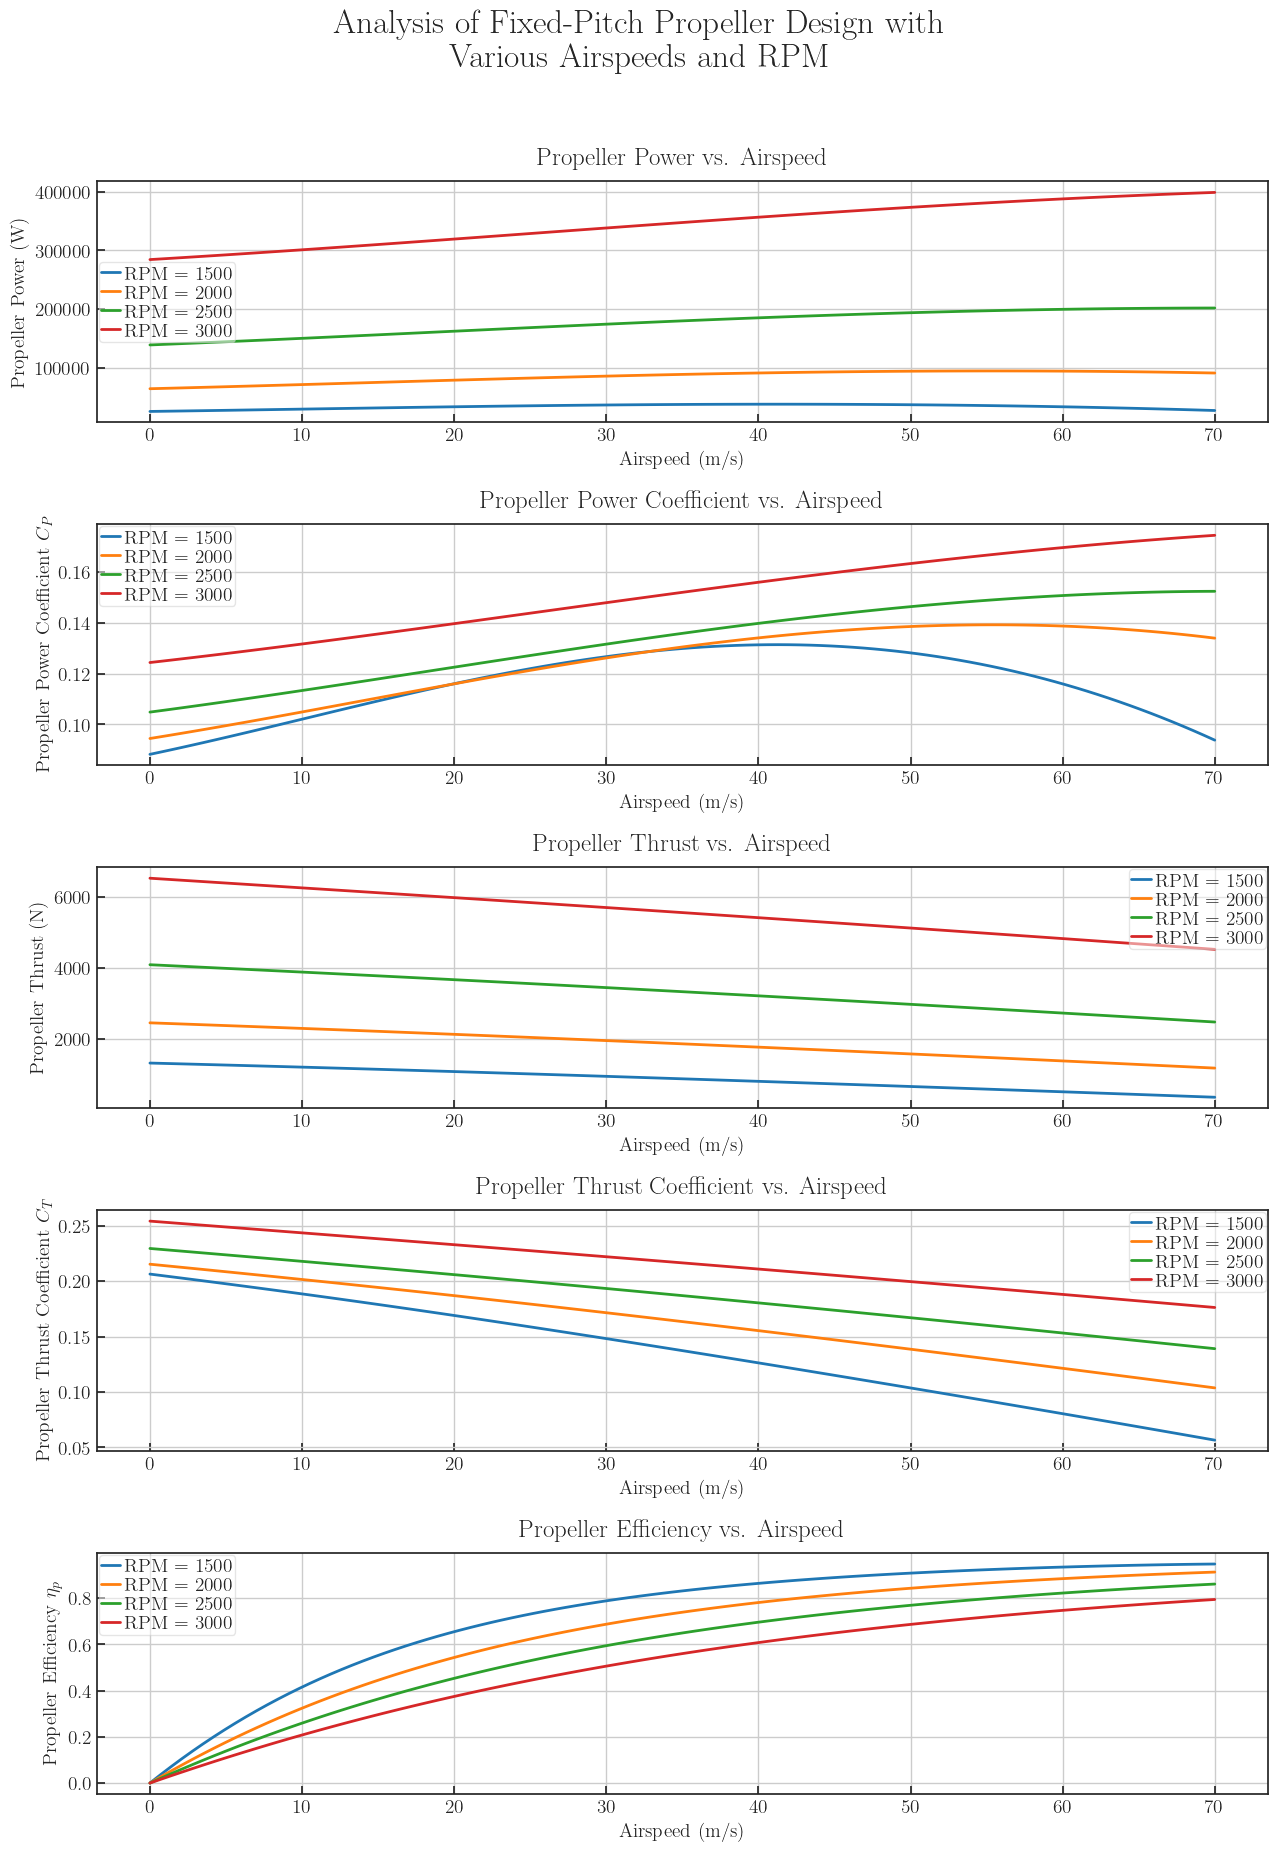
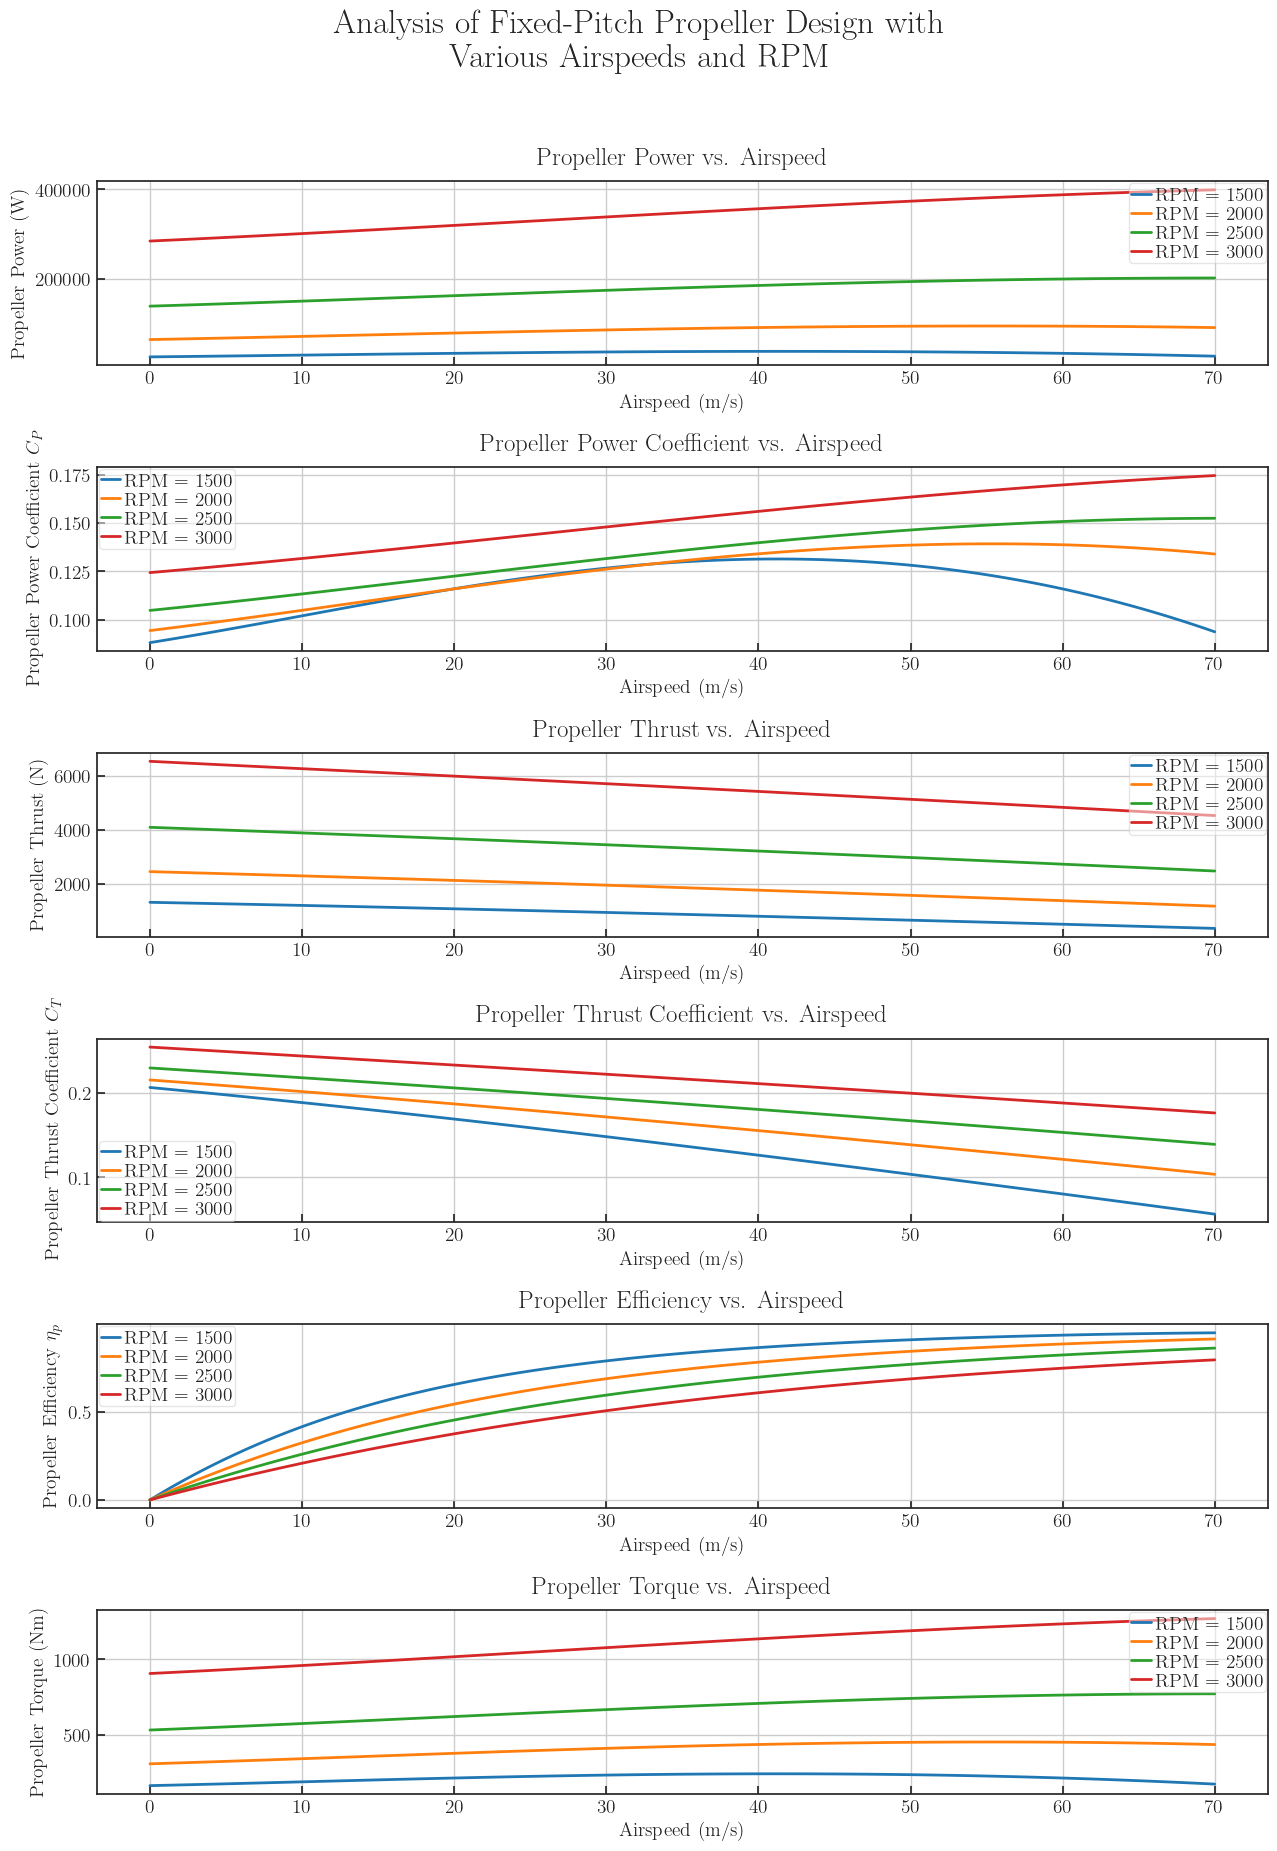
Variable pitch analysis not working happily
TVG 03.01.2021

diff --git a/Python_Codes/prop_design_analysis_fixpitch_varRPM.py b/Python_Codes/prop_design_analysis_fixpitch_varRPM.py
@@ -1,6 +1,6 @@
 '''
 prop_design_analysis
-Propeller design and analysis (fixed and variable pitch)
+Propeller design and analysis (fixed pitch, varying RPM)
 
 Calls:
     prop_design_TVG
@@ -13,13 +13,23 @@ History:
 '''
 
 from prop_design_TVG import prop_design
-from prop_analysis_fix_pitch import prop_analysis
+from prop_analysis import prop_analysis
 import numpy
 import matplotlib.pyplot as plt
 from Class130 import AtmData, Propeller
 import sys
 sys.path.append("../Utilities")
 import formatfigures
+
+# Emrax 188 Engine data (continuous performance)
+# Nomeclature: enginename_voltagelevel_coolingtype
+Emrax188_HV_CC = numpy.array([[0, 0],
+                            [1000, 5000],
+                            [2000, 10500],
+                            [3000, 16000],
+                            [4000, 22000],
+                            [5000, 26000],
+                            [6000, 28000]])
 
 def m0_fn(Ma):
     if numpy.any(Ma <= 0.9):
@@ -116,55 +126,105 @@ Pdesign = numpy.zeros((ll,))
 CP = numpy.zeros((ll,))
 Tdesign = numpy.zeros((ll,))
 CT = numpy.zeros((ll,))
+Qdesign = numpy.zeros((ll,))
+CQ = numpy.zeros((ll,))
 etap = numpy.zeros((ll,))
+
 
 plt.figure(figsize=(13, 19.5))
 
-sp1 = plt.subplot(5,1,1)
+sp1 = plt.subplot(6,1,1)
 plt.gca().set_title("Propeller Power vs. Airspeed")
 plt.xlabel("Airspeed (m/s)")
 plt.ylabel("Propeller Power (W)")
 
-sp2 = plt.subplot(5,1,2)
+sp2 = plt.subplot(6,1,2)
 plt.gca().set_title("Propeller Power Coefficient vs. Airspeed")
 plt.xlabel("Airspeed (m/s)")
 plt.ylabel("Propeller Power Coefficient $C_P$")
 
-sp3 = plt.subplot(5,1,3)
+sp3 = plt.subplot(6,1,3)
 plt.gca().set_title("Propeller Thrust vs. Airspeed")
 plt.xlabel("Airspeed (m/s)")
 plt.ylabel("Propeller Thrust (N)")
 
-sp4 = plt.subplot(5,1,4)
+sp4 = plt.subplot(6,1,4)
 plt.gca().set_title("Propeller Thrust Coefficient vs. Airspeed")
 plt.xlabel("Airspeed (m/s)")
 plt.ylabel("Propeller Thrust Coefficient $C_T$")
 
-sp5 = plt.subplot(5,1,5)
+sp5 = plt.subplot(6,1,5)
 plt.gca().set_title("Propeller Efficiency vs. Airspeed")
 plt.xlabel("Airspeed (m/s)")
 plt.ylabel("Propeller Efficiency $\eta_p$")
+
+sp6 = plt.subplot(6,1,6)
+plt.gca().set_title("Propeller Torque vs. Airspeed")
+plt.xlabel("Airspeed (m/s)")
+plt.ylabel("Propeller Torque (Nm)")
 
 for RPM in range(1500, 3500, 500):
     for ii in range(0,ll):
         atm = AtmData(Vseq[ii], h, is_SI)
         atm.expand(k, R)
         prop = Propeller(radius, numB, RPM, eta_P, CP=0, CT=0, CQ=0, Cl=0.4, chord=prop.chord, bet=prop.bet)
-        J[ii], Pdesign[ii], CP[ii], Tdesign[ii], CT[ii], etap[ii] = prop_analysis(atm, prop, m0_fn, Cd_fn)
+        J[ii], Pdesign[ii], CP[ii], Tdesign[ii], CT[ii], Qdesign[ii], CQ[ii], etap[ii] = prop_analysis(atm, prop, m0_fn, Cd_fn)
     
     sp1.plot(Vseq,Pdesign,label='RPM = {}'.format(RPM))
     sp2.plot(Vseq,CP,label='RPM = {}'.format(RPM))
     sp3.plot(Vseq,Tdesign,label='RPM = {}'.format(RPM))
     sp4.plot(Vseq,CT,label='RPM = {}'.format(RPM))
     sp5.plot(Vseq,etap,label='RPM = {}'.format(RPM))
+    sp6.plot(Vseq,Qdesign,label='RPM = {}'.format(RPM))
+    
 
 sp1.legend()
 sp2.legend()
 sp3.legend()
 sp4.legend()
 sp5.legend()
+sp6.legend()
 
 plt.tight_layout(rect=[0, 0.03, 1, 0.92])
 plt.suptitle("Analysis of Fixed-Pitch Propeller Design with \n Various Airspeeds and RPM\n\n",fontsize=24)
 plt.savefig('./Figures/fixed_pitch_analysis.png', bbox_inches='tight')
-plt.show()
+try:
+    formatfigures.formatfigures()
+    latex = True
+except ValueError:
+    print("Not using latex formatting")
+    latex = False
+
+# Design a propeller with the cruise conditions 
+atm = AtmData(62, 6000*0.3048, is_SI)
+atm.expand(1.4, 287)
+prop = Propeller(radius, numB, 1800, eta_P, CP=0, CT=0, CQ=0, Cl=0.4)
+r, prop.chord, prop.bet, P_design, T_design, Q_design, eta_P, prop.theta = prop_design(atm, prop, T_req, m0_fn, Cd_fn)
+
+RPMseq = numpy.linspace(500,3000,ll)
+fig1 = plt.figure()
+ax1 = fig1.add_subplot(111)
+ax2 = ax1.twinx()
+
+for v_inf in range(2,72,20):
+    for ii in range(0,ll):
+        atm = AtmData(v_inf, h, is_SI)
+        atm.expand(k, R)
+        prop = Propeller(radius, numB, RPMseq[ii], eta_P, CP=0, CT=0, CQ=0, Cl=0.4, chord=prop.chord, bet=prop.bet)
+        J[ii], Pdesign[ii], CP[ii], Tdesign[ii], CT[ii], Qdesign[ii], CQ[ii], etap[ii] = prop_analysis(atm, prop, m0_fn, Cd_fn)
+
+    ax1.plot(RPMseq,Pdesign,label='$V_\infty$ = {}'.format(v_inf))
+    ax2.plot(RPMseq,Tdesign,linestyle='dashdot')
+
+ax1.plot(Emrax188_HV_CC[0:4,0],Emrax188_HV_CC[0:4,1],label='EMRAX 188 HV, Combined Cooling',linestyle='dashed',color='black')
+plt.title("Power vs. RPM for Fixed Pitch Propeller Designed for Cruise Flight at \n 1800 RPM Compared to EMRAX 188 High Voltage with Combined Cooling")
+ax1.set_xlabel("RPM")
+ax1.set_ylabel("-- Power (W)")
+ax1.legend()
+ax1.set_ylim([0, 20000])
+ax1.set_xlim([1000,2500])
+ax2.yaxis.set_label_position("right")
+ax2.set_ylabel("$\cdot$- Thrust (N)")
+plt.savefig('./Figures/fixed_pitch_Power_vs_RPM.png', bbox_inches='tight')
+
+

diff --git a/Python_Codes/prop_design_analysis_varpitch.py b/Python_Codes/prop_design_analysis_varpitch.py
@@ -1,0 +1,113 @@
+'''
+prop_design_analysis_varpitch
+Propeller design and analysis (variable pitch, variable airspeed)
+
+Calls:
+    prop_design_TVG
+
+Notes:
+
+History:
+    02.28.2021: 
+
+'''
+
+
+from prop_design_TVG import prop_design
+from prop_analysis_var_pitch import prop_analysis_var_pitch
+import numpy
+import matplotlib.pyplot as plt
+from Class130 import AtmData, Propeller
+import sys
+sys.path.append("../Utilities")
+import formatfigures
+
+try:
+    formatfigures.formatsubfigures()
+    latex = True
+except ValueError:
+    print("Not using latex formatting")
+    latex = False
+
+# Emrax 188 Engine data (continuous performance)
+# Nomeclature: enginename_voltagelevel_coolingtype
+Emrax188_HV_CC = numpy.flip(numpy.array([[0, 0],
+                            [1000, 5000],
+                            [2000, 10500],
+                            [3000, 16000],
+                            [4000, 22000],
+                            [5000, 26000],
+                            [6000, 28000]]),0)
+
+is_HP = False
+
+def m0_fn(Ma):
+    if numpy.any(Ma <= 0.9):
+        return (2 * numpy.pi) / numpy.sqrt(1 - Ma ** 2)
+    else:
+        return (2 * numpy.pi) / numpy.sqrt(1 - 0.9 ** 2)
+
+def Cd_fn(Cl):
+    return 0.0095 + 0.0040 * (Cl - 0.2) ** 2    
+
+# Variable pitch analysis
+# Design a propeller with the hover conditions 
+radius = 1.78/2
+LD = 15
+is_SI = True
+numB = 3
+T_req = 13000/8*2 #N (TOGW/(L/D))
+Cl = 0.4
+alp0 = numpy.radians(-2)
+v_design = 30 #IDK why I'm choosing this, lol. Just trying to debug since the code isn't behaving
+atm = AtmData(v_design, 6000*0.3048, is_SI)
+atm.expand(1.4, 287)
+v_seq = numpy.arange(0,72,2)
+prop = Propeller(radius, numB, 3000, eta_P=0, CP=0, CT=0, CQ=0, Cl=0.4)
+r, prop.chord, prop.bet, P_design, T_design, Q_design, eta_P, prop.theta = prop_design(atm, prop, T_req, m0_fn, Cd_fn)
+
+ll = numpy.size(v_seq)
+
+J_var = numpy.zeros((ll,))
+P_design_Var = numpy.zeros((ll,))
+T_design_var = numpy.zeros((ll,))
+eta_P_var = numpy.zeros((ll,))
+deta_P = numpy.zeros((ll,))
+dT = numpy.zeros((ll,))
+delta_bet = numpy.zeros((ll,))
+RPM_fix = numpy.zeros((ll,))
+
+# Analyze the propeller with the variable pitch propeller function
+for ii in range(ll):
+    J_var[ii], P_design_Var[ii], T_design_var[ii], eta_P_var[ii], deta_P[ii], dT[ii], delta_bet[ii], RPM_fix[ii] = prop_analysis_var_pitch(v_seq[ii], Emrax188_HV_CC, is_HP, atm, prop, m0_fn, Cd_fn)
+
+plt.figure(figsize=(13, 19.5))
+plt.subplot(4,1,1)
+plt.plot(v_seq,P_design_Var)
+plt.xlabel("Airspeed (m/s)")
+plt.ylabel("Propeller Power (W)")
+plt.gca().set_title("Power vs. Airspeed")
+
+plt.subplot(4,1,2)
+plt.plot(v_seq,T_design_var)
+plt.xlabel("Airspeed (m/s)")
+plt.ylabel("Propeller Thrust (N)")
+plt.gca().set_title("Thrust vs. Airspeed")
+
+plt.subplot(4,1,3)
+plt.plot(v_seq,eta_P_var)
+plt.xlabel("Airspeed (m/s)")
+plt.ylabel("Propeller Efficiency $\eta_p$")
+plt.gca().set_title("Propeller Efficiency vs. Airspeed")
+
+plt.subplot(4,1,4)
+plt.plot(v_seq,delta_bet*180/numpy.pi)
+plt.xlabel("Airspeed (m/s)")
+# plt.ylabel("Pitch Variation $\delta_{\beta}$")
+plt.gca().set_title("Propeller Pitch Variation vs. Airspeed")
+
+plt.tight_layout(rect=[0, 0.03, 1, 0.92])
+plt.suptitle("Analysis of Variable-Pitch Propeller Design with \n Various Airspeeds ",fontsize=24)
+plt.savefig('./Figures/variable_pitch_analysis.png', bbox_inches='tight')
+
+plt.show()

diff --git a/Python_Codes/prop_analysis_var_pitch.py b/Python_Codes/prop_analysis_var_pitch.py
@@ -74,7 +74,7 @@ def prop_analysis_var_pitch(v_in, P_eng_data, is_HP, AtmData, Propeller, m0_fn, 
     while res > tol and iter_num <= iter_lim:
         Pn_fix = get_P_eng(P_eng_data, n_fix * 60)
         res = numpy.absolute(Pd_fix-Pn_fix)
-        J_fix, P_design_fix, _, T_design_fix, _, eta_P_fix = prop_analysis(AtmData, Propeller, m0_fn, Cd_fn)
+        J_fix, P_design_fix, _, T_design_fix, _, _, _, eta_P_fix = prop_analysis(AtmData, Propeller, m0_fn, Cd_fn)
 
         if Pd_fix < Pn_fix:
             n_fix = n_fix * (1 + 0.5 * (Pn_fix - Pd_fix) / (Pn_fix + Pd_fix))
@@ -98,19 +98,20 @@ def prop_analysis_var_pitch(v_in, P_eng_data, is_HP, AtmData, Propeller, m0_fn, 
     while res > tol and iter_num <= iter_lim:
         P_eng = get_P_eng(P_eng_data, Propeller.RPM)
         Propeller.bet += d_bet
-        J_var, P_design_var, _, T_design_var, _, eta_P_var = prop_analysis(AtmData, Propeller, m0_fn, Cd_fn)
+        J_var, P_design_var, _, T_design_var, _, _, _, eta_P_var = prop_analysis(AtmData, Propeller, m0_fn, Cd_fn)
         Propeller.bet = copy.deepcopy(bet_original)
 
         P_design_var = P_design_var if P_design_var > 0 else 10*750
+        factor = numpy.absolute(1/d_bet*2*numpy.pi/180)*0.5
         if d_bet < 0:
-            d_bet *= (1 - 2*(P_eng - P_design_var) / (P_eng + P_design_var))
+            d_bet *= (1 - factor*(P_eng - P_design_var) / (P_eng + P_design_var))
         else:
-            d_bet *= (1 + 2*(P_eng - P_design_var) / (P_eng + P_design_var))
+            d_bet *= (1 + factor*(P_eng - P_design_var) / (P_eng + P_design_var))
             if numpy.round(d_bet, 14) <= tol:
                 break
 
         res = numpy.absolute(P_design_var-P_eng)
-        
+        # print(res)
         iter_num += 1
 
         if iter_lim == iter_num:
@@ -128,13 +129,13 @@ def prop_analysis_var_pitch(v_in, P_eng_data, is_HP, AtmData, Propeller, m0_fn, 
 
 if __name__ == '__main__':
 
-    P_eng_data = [[2400, 177],
-                  [2300, 170],
-                  [2200, 165],
-                  [2100, 158],
-                  [2000, 150],
-                  [1900, 141],
-                  [1800, 131]]
+    P_eng_data = [  [2400, 177],
+                    [2300, 170],
+                    [2200, 165],
+                    [2100, 158],
+                    [2000, 150],
+                    [1900, 141],
+                    [1800, 131]]
 
     def m0_fn(Ma):
         if numpy.any(Ma <= 0.9):

diff --git a/Sizing/sizing_process.py b/Sizing/sizing_process.py
@@ -76,7 +76,6 @@ def sizing_process(time_hover_climb, time_climb, time_cruise, time_hover_descent
 
         # Final power system weight, find & record battery size
         power_system_mass, power_system_name = component_sizing.power_system_mass_sizing(distr, rho_battery, E_est, P_req, battery_reserve)
-        print("\t Power System Model:", power_system_name)
         
 
         # Electric Motor mass
@@ -87,6 +86,7 @@ def sizing_process(time_hover_climb, time_climb, time_cruise, time_hover_descent
         TOGW_est = TOGM_est * g
 
         if abs(TOGW_est - TOGW_guess) < tol:    # if converges
+            print("Power System Model:", power_system_name)
             print("Ended conversion in " + str(iter_num) + " iterations.")
             power_loading = TOGW_est / (P_req * 1.5)    # N/W
             disk_loading = TOGW_est / S_disk            # N/m^2
@@ -117,6 +117,8 @@ def sizing_process(time_hover_climb, time_climb, time_cruise, time_hover_descent
             print("Function not showing convergence.")
             print("Consider re-evaluating assumptions and requirements.")
             return
+    
+    
 
 
 if __name__ == "__main__":

diff --git a/Python_Codes/prop_analysis.py b/Python_Codes/prop_analysis.py
@@ -110,7 +110,7 @@ def prop_analysis(AtmData, Propeller, m0_fn, Cd_fn):
     Tdesign = CT * rho * n**2 * D**4
     Qdesign = CQ * rho * n**2 * D**5
         
-    return J, Pdesign, CP, Tdesign, CT, etap
+    return J, Pdesign, CP, Tdesign, CT, Qdesign, CQ, etap
 
 
 if __name__ == "__main__":
@@ -153,12 +153,14 @@ if __name__ == "__main__":
     CP = numpy.zeros((ll,))
     Tdesign = numpy.zeros((ll,))
     CT = numpy.zeros((ll,))
+    Qdesign = numpy.zeros((ll,))
+    CQ = numpy.zeros((ll,))
     etap = numpy.zeros((ll,))
 
     for ii in range(0,ll):
         atm_check = AtmData(Vseq[ii], h, is_SI)
         atm_check.expand(k, R)
-        J[ii], Pdesign[ii], CP[ii], Tdesign[ii], CT[ii], etap[ii] = prop_analysis(atm_check, prop_check, m0_fn, Cd_fn)
+        J[ii], Pdesign[ii], CP[ii], Tdesign[ii], CT[ii], Qdesign[ii], CQ[ii], etap[ii] = prop_analysis(atm_check, prop_check, m0_fn, Cd_fn)
 
     plt.figure(1)
     plt.plot(J,Pdesign*0.00134102)

diff --git a/Sizing/component_sizing.py b/Sizing/component_sizing.py
@@ -1,6 +1,6 @@
 import numpy 
 import sys
-sys.path.append("../Trade_Studies/Python_Codes")
+sys.path.append("../Python_Codes")
 from Class130 import SimpleFuelCell
 
 def electric_motor_mass(P_continuous):

diff --git a/Sizing/sizing_figures.py b/Sizing/sizing_figures.py
@@ -9,6 +9,7 @@ import Class130
 sys.path.append("../Utilities")
 import formatfigures
 
+
 try:
     formatfigures.formatfigures()
     latex = True
